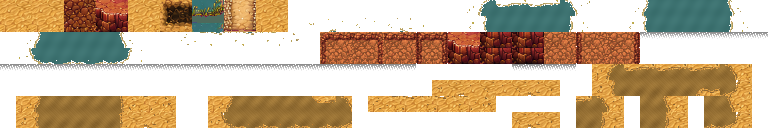
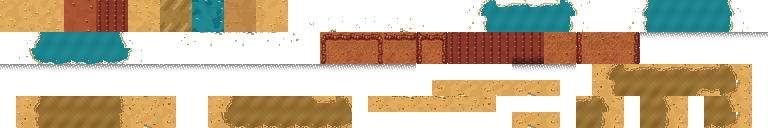
Re-material desert terrain fills
Verification:
- npm run assets:desert PASS
- npm run assets:stage:desert:check PASS
- npm run check FAILS only on unrelated public/reach-hen-sheet.png and public/reach-vole-sheet.png asset-budget overages
- npx playwright test tests/e2e/asset-forge-stage.spec.ts --workers=1 BLOCKED by existing 127.0.0.1:5173 server with reuseExistingServer=false
- Visual-only summary unchanged for ascii/collision/base layer/objects

diff --git a/tools/build-stage-from-textures.ts b/tools/build-stage-from-textures.ts
@@ -14,7 +14,7 @@
 // the in-game floor exactly.
 //
 //   node tools/build-stage-from-textures.ts --floor <N> --name <stage-id>
-import { mkdirSync, readFileSync, writeFileSync } from "node:fs";
+import { existsSync, mkdirSync, readFileSync, writeFileSync } from "node:fs";
 import nodePath from "node:path";
 import { PNG } from "pngjs";
 import { isBlockedTile, isRoadTile, isSightBlocked, makeFloorTiles } from "../src/shared.ts";
@@ -144,12 +144,34 @@ if (missing.length) console.warn(`WARN: chars with no sheet texture (flat-color 
 
 const tileBuf: Buffer[] = [];
 const legend: Record<string, string> = {};
+const desertFillForChar: Record<string, string> = {
+  a: "desert-sand-v0.png",
+  G: "desert-sand-v1.png",
+  H: "desert-sand-v2.png",
+  U: "desert-sand-v3.png",
+  Y: "desert-road.png",
+  V: "desert-oasis-water.png",
+  Q: "desert-quicksand.png",
+  w: "desert-red-rock-top.png",
+  X: "desert-red-rock-cliff.png",
+};
+function maybeApplyStageFill(ch: string, tile: Buffer): void {
+  if (name !== "desert") return;
+  const file = desertFillForChar[ch];
+  if (!file) return;
+  const p = nodePath.join(repoRoot, "assetsources/curated/fills", file);
+  if (!existsSync(p)) return;
+  const fill = PNG.sync.read(readFileSync(p));
+  if (fill.width !== ts || fill.height !== ts) throw new Error(`${p} must be ${ts}x${ts}`);
+  fill.data.copy(tile, 0, 0, ts * ts * 4);
+}
 chars.forEach((ch, idx) => {
   const tile = Buffer.alloc(ts * ts * 4);
   const u = UNDER[ch]; if (u && TEX[u]) over(tile, extractRaw(u));
   const base = BASE[ch];
   if (base && TEX[base]) over(tile, extractRaw(base));
   flatten(tile);
+  maybeApplyStageFill(ch, tile);
   tileBuf.push(tile);
   legend[ch] = `${name}:${idx}`;
 });

diff --git a/tools/rematerial-desert-fills.py b/tools/rematerial-desert-fills.py
@@ -1,0 +1,249 @@
+#!/usr/bin/env python3
+"""Generate procedural desert fills for the Tier-B desert re-material slice."""
+from __future__ import annotations
+
+import importlib.util
+import json
+from pathlib import Path
+
+import numpy as np
+from PIL import Image, ImageDraw
+
+ROOT = Path(__file__).resolve().parent.parent
+FILLS = ROOT / "assetsources/curated/fills"
+ARTIFACTS = ROOT / "artifacts/terrain-restyle/desert"
+TS = 32
+
+spec_norm = importlib.util.spec_from_file_location("norm", ROOT / "tools/normalize-terrain-fill.py")
+norm = importlib.util.module_from_spec(spec_norm)
+spec_norm.loader.exec_module(norm)  # type: ignore[union-attr]
+
+RAMPS = {
+    "sand": ["#b7782d", "#d0913e", "#e3ad5d", "#efc77d", "#f6dea3"],
+    "road": ["#8f5f2c", "#aa7338", "#c38b4b", "#d5a15d", "#e6ba77"],
+    "oasis-water": ["#0a5964", "#11707c", "#1d8991", "#38a5a7", "#73c2b7"],
+    "quicksand": ["#7c5426", "#956c31", "#aa8240", "#bd9854", "#d0ae6c"],
+    "red-rock-top": ["#5b1f1d", "#87372a", "#ad5635", "#c87648", "#dc9962"],
+    "red-rock-cliff": ["#421819", "#682521", "#8d3a2b", "#ad5635", "#c87648"],
+}
+SEEDS = {
+    "sand": [707, 719, 733, 751],
+    "road": [809],
+    "oasis-water": [853],
+    "quicksand": [907],
+    "red-rock-top": [953],
+    "red-rock-cliff": [977],
+}
+
+
+def hexes(name: str) -> list[tuple[int, int, int]]:
+    return [norm.hex_rgb(c) for c in RAMPS[name]]
+
+
+def torus_noise(seed: int, passes: int = 6) -> np.ndarray:
+    rng = np.random.default_rng(seed)
+    n = rng.random((TS, TS))
+    for _ in range(passes):
+        n = sum(np.roll(np.roll(n, dy, 0), dx, 1) for dy in (-1, 0, 1) for dx in (-1, 0, 1)) / 9.0
+    return (n - n.min()) / max(n.max() - n.min(), 1e-9)
+
+
+def scatter(rng: np.random.Generator, count: int, min_dist: int = 7) -> list[tuple[int, int]]:
+    pts: list[tuple[int, int]] = []
+    guard = 0
+    while len(pts) < count and guard < 1000:
+        guard += 1
+        x, y = int(rng.integers(0, TS)), int(rng.integers(0, TS))
+        if all((min(abs(x - px), TS - abs(x - px)) ** 2 + min(abs(y - py), TS - abs(y - py)) ** 2) >= min_dist * min_dist for px, py in pts):
+            pts.append((x, y))
+    return pts
+
+
+def px(a: np.ndarray, x: int, y: int, color: tuple[int, int, int]) -> None:
+    a[y % TS, x % TS] = color
+
+
+def base_mottle(material: str, seed: int, low_q: float = 0.4) -> np.ndarray:
+    dark2, dark, base, light, bright = hexes(material)
+    a = np.zeros((TS, TS, 3), np.uint8)
+    a[:, :] = base
+    lo = tuple(int(v * 0.95) for v in base)
+    n = torus_noise(seed + 17)
+    mask = n < np.quantile(n, low_q)
+    neigh = sum(np.roll(np.roll(mask, dy, 0), dx, 1) for dy, dx in ((1, 0), (-1, 0), (0, 1), (0, -1)))
+    a[mask & (neigh > 0)] = lo
+    return a
+
+
+def sand_fill(seed: int) -> Image.Image:
+    dark2, dark, base, light, bright = hexes("sand")
+    rng = np.random.default_rng(seed)
+    a = base_mottle("sand", seed, 0.42)
+    for x, y in scatter(rng, 5, 7):
+        for dx, dy in ((0, 0), (1, 0), (2, 0), (2, 1)):
+            px(a, x + dx, y + dy, dark)
+        px(a, x, y - 1, light)
+        px(a, x + 1, y - 1, bright)
+    for x, y in scatter(rng, 5, 6):
+        px(a, x, y, dark2)
+    return Image.fromarray(a)
+
+
+def road_fill(seed: int) -> Image.Image:
+    dark2, dark, base, light, bright = hexes("road")
+    rng = np.random.default_rng(seed)
+    a = base_mottle("road", seed, 0.46)
+    for y in (8, 9, 22, 23):
+        a[y, :] = tuple(int(v * 0.95) for v in base)
+    for x, y in scatter(rng, 5, 7):
+        for dx, dy in ((0, 0), (1, 0), (1, 1)):
+            px(a, x + dx, y + dy, dark)
+        px(a, x, y - 1, light)
+    return Image.fromarray(a)
+
+
+def water_fill(seed: int) -> Image.Image:
+    dark2, dark, base, light, bright = hexes("oasis-water")
+    rng = np.random.default_rng(seed)
+    a = base_mottle("oasis-water", seed, 0.34)
+    deep = torus_noise(seed + 33, 5)
+    a[deep < np.quantile(deep, 0.22)] = dark
+    for x, y in scatter(rng, 5, 7):
+        px(a, x, y, bright)
+        px(a, x + 1, y, bright)
+        px(a, x + 2, y + 1, light)
+    return Image.fromarray(a)
+
+
+def quicksand_fill(seed: int) -> Image.Image:
+    dark2, dark, base, light, bright = hexes("quicksand")
+    a = base_mottle("quicksand", seed, 0.48)
+    yy, xx = np.mgrid[0:TS, 0:TS]
+    ring = np.sin(xx * 2 * np.pi / 16 + yy * 2 * np.pi / 32) + np.sin((xx + yy) * 2 * np.pi / 16)
+    a[ring < -1.0] = dark
+    a[ring > 1.15] = light
+    return Image.fromarray(a)
+
+
+def rock_fill(material: str, seed: int) -> Image.Image:
+    dark2, dark, base, light, bright = hexes(material)
+    rng = np.random.default_rng(seed)
+    a = base_mottle(material, seed, 0.44)
+    if material.endswith("cliff"):
+        for x in range(3, TS, 8):
+            a[:, x:x + 2] = dark
+            a[0:TS:5, x - 1:x + 1] = light
+    else:
+        for x, y in scatter(rng, 4, 8):
+            for dx, dy in ((0, 0), (1, 0), (2, 0), (1, 1), (2, 1)):
+                px(a, x + dx, y + dy, dark)
+            px(a, x, y - 1, light)
+            px(a, x + 1, y - 1, bright)
+    return Image.fromarray(a)
+
+
+def tiled(fill: Image.Image, n: int = 4, zoom: int = 2) -> Image.Image:
+    out = Image.new("RGB", (TS * n, TS * n))
+    for y in range(n):
+        for x in range(n):
+            out.paste(fill.convert("RGB"), (x * TS, y * TS))
+    return out.resize((out.width * zoom, out.height * zoom), Image.Resampling.NEAREST)
+
+
+def label(img: Image.Image, xy: tuple[int, int], text: str) -> None:
+    d = ImageDraw.Draw(img)
+    d.text((xy[0] + 1, xy[1] + 1), text, fill=(0, 0, 0))
+    d.text(xy, text, fill=(235, 235, 235))
+
+
+def first_frame(sheet_name: str, width: int = 48) -> Image.Image:
+    im = Image.open(ROOT / "public" / sheet_name).convert("RGBA")
+    fw, fh = im.width // 4, im.height // 4
+    spr = im.crop((0, 2 * fh, fw, 3 * fh))
+    arr = np.array(spr)
+    mag = (arr[:, :, 0] > 95) & (arr[:, :, 2] > 90) & (arr[:, :, 1] < 135) & (np.abs(arr[:, :, 0].astype(int) - arr[:, :, 2].astype(int)) < 95)
+    arr[mag, 3] = 0
+    spr = Image.fromarray(arr)
+    return spr.resize((width, round(width * spr.height / spr.width)), Image.Resampling.NEAREST)
+
+
+def desert_prop(sheet: Image.Image, box: tuple[int, int, int, int], width: int) -> Image.Image:
+    spr = sheet.crop(box).convert("RGBA")
+    arr = np.array(spr)
+    mag = (arr[:, :, 0] > 95) & (arr[:, :, 2] > 90) & (arr[:, :, 1] < 135) & (np.abs(arr[:, :, 0].astype(int) - arr[:, :, 2].astype(int)) < 95)
+    arr[mag, 3] = 0
+    spr = Image.fromarray(arr)
+    return spr.resize((width, round(width * spr.height / spr.width)), Image.Resampling.LANCZOS)
+
+
+def make_sheets(fills: dict[str, list[Image.Image]]) -> None:
+    materials = ["sand", "road", "oasis-water", "quicksand", "red-rock-top", "red-rock-cliff"]
+    sheet = Image.new("RGB", (4 * 136, 2 * 286), (18, 22, 27))
+    for i, material in enumerate(materials):
+        row, col = divmod(i, 4)
+        tile = tiled(fills[material][0])
+        x, y = col * 136, row * 286
+        sheet.paste(tile, (x, y + 24))
+        label(sheet, (x + 4, y + 4), f"desert {material}")
+    sheet.save(ARTIFACTS / "desert-fill-variants.png")
+
+    atlas = Image.open(ROOT / "public/desert-tiles.png").convert("RGBA")
+    props = [
+        desert_prop(atlas, (1364, 854, 1468, 938), 76),
+        desert_prop(atlas, (1456, 958, 1518, 1016), 56),
+        desert_prop(atlas, (22, 856, 88, 942), 58),
+    ]
+    enemy = first_frame("dune-reaver-sheet.png", 48)
+    harmony = Image.new("RGB", (3 * 256, 210), (18, 22, 27))
+    for col, material in enumerate(("sand", "road", "oasis-water")):
+        bg = tiled(fills[material][0], n=4, zoom=2).convert("RGBA")
+        canvas = Image.new("RGBA", (256, 210), (18, 22, 27, 255))
+        canvas.alpha_composite(bg.crop((0, 0, 256, 160)), (0, 28))
+        for i, prop in enumerate(props):
+            x = 24 + i * 62
+            y = 136 - prop.height
+            shadow = Image.new("RGBA", canvas.size, (0, 0, 0, 0))
+            d = ImageDraw.Draw(shadow)
+            d.ellipse((x + 4, y + prop.height - 9, x + prop.width - 4, y + prop.height + 5), fill=(28, 17, 8, 80))
+            canvas.alpha_composite(shadow)
+            canvas.alpha_composite(prop, (x, y))
+        canvas.alpha_composite(enemy, (188, 104))
+        label(canvas, (8, 8), f"desert {material} + props + dune reaver")
+        harmony.paste(canvas.convert("RGB"), (col * 256, 0))
+    harmony.save(ARTIFACTS / "desert-harmony-fills-props-dune-reaver.png")
+
+
+def main() -> None:
+    FILLS.mkdir(parents=True, exist_ok=True)
+    ARTIFACTS.mkdir(parents=True, exist_ok=True)
+    makers = {
+        "sand": sand_fill,
+        "road": road_fill,
+        "oasis-water": water_fill,
+        "quicksand": quicksand_fill,
+        "red-rock-top": lambda seed: rock_fill("red-rock-top", seed),
+        "red-rock-cliff": lambda seed: rock_fill("red-rock-cliff", seed),
+    }
+    reports: dict[str, dict] = {}
+    fills: dict[str, list[Image.Image]] = {}
+    for material, seeds in SEEDS.items():
+        fills[material] = []
+        ramp = hexes(material)
+        for i, seed in enumerate(seeds):
+            im = makers[material](seed)
+            suffix = f"-v{i}" if len(seeds) > 1 else ""
+            name = f"desert-{material}{suffix}"
+            out = FILLS / f"{name}.png"
+            im.save(out)
+            gates = norm.gate_report(im, ramp)
+            report = {"src": str(out), "material": material, "recipe": "procedural/desert_tuft", "ramp": RAMPS[material], "seed": seed, "gates": gates}
+            reports[name] = report
+            (ARTIFACTS / f"{name}-gate-report.json").write_text(json.dumps(report, indent=2))
+            fills[material].append(im)
+            print(f"{out}: {'PASS' if gates['all_pass'] else 'FAIL'}")
+    (ARTIFACTS / "desert-fill-gate-summary.json").write_text(json.dumps(reports, indent=2))
+    make_sheets(fills)
+
+
+if __name__ == "__main__":
+    main()
